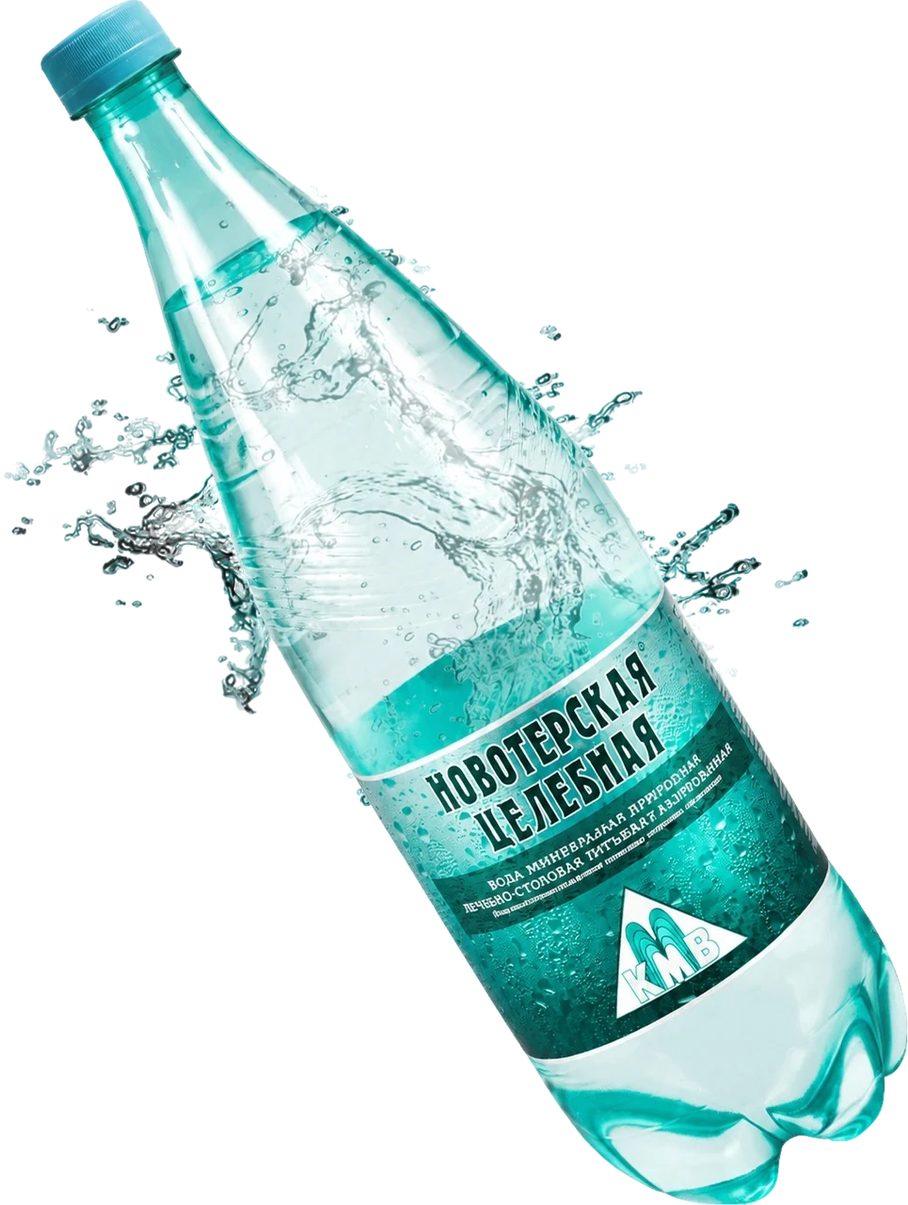
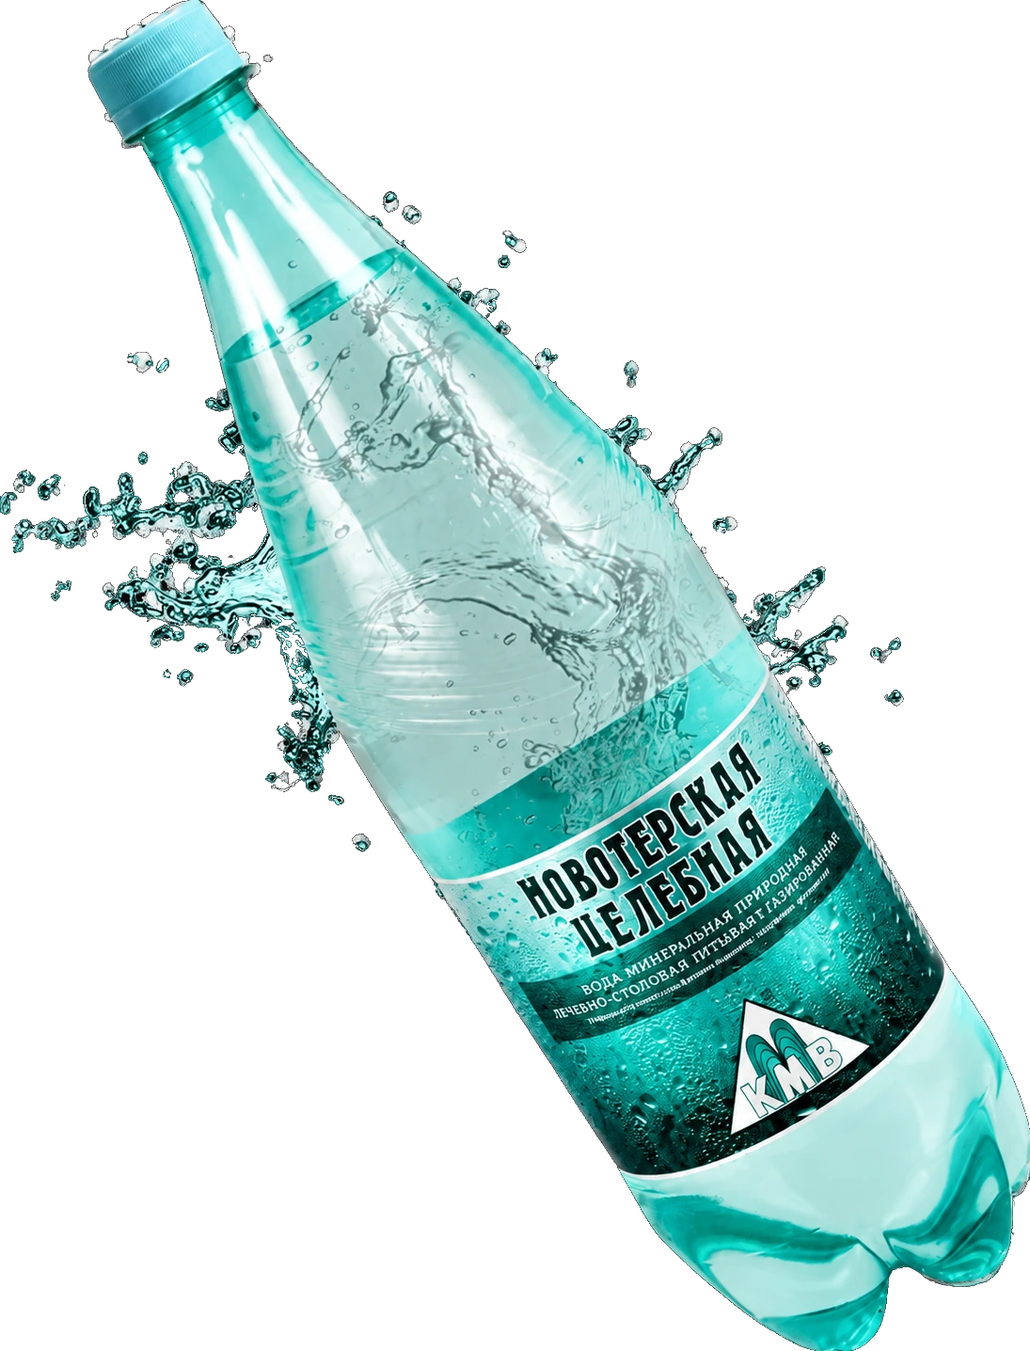
Заменить кадр бутылки на финальном экране

diff --git a/buy.html b/buy.html
@@ -31,7 +31,7 @@
      аккуратная. <noscript> — для случая, когда onload не отработает. -->
 <link href="https://fonts.googleapis.com/css2?family=Fira+Sans:ital,wght@0,400;0,500;0,600;0,700;1,400&amp;family=Prata&amp;display=swap&amp;subset=cyrillic,latin" rel="stylesheet" media="print" onload="this.media='all';this.onload=null" />
 <noscript><link href="https://fonts.googleapis.com/css2?family=Fira+Sans:ital,wght@0,400;0,500;0,600;0,700;1,400&amp;family=Prata&amp;display=swap&amp;subset=cyrillic,latin" rel="stylesheet" /></noscript>
-<link href="css/style.css?v=rock-v53" rel="stylesheet"/>
+<link href="css/style.css?v=rock-v54" rel="stylesheet"/>
 <!-- Карточки магазинов для поиска: адрес, часы работы и координаты в том же
      виде, в каком они показаны на странице. -->
 <script type="application/ld+json">
@@ -139,9 +139,9 @@
   </a>
   <a class="channel" href="#retailers">
     <span class="channel-mark channel-mark-stack" aria-hidden="true">
-      <img alt="" height="30" loading="lazy" src="assets/retailers/lenta.svg?v=rock-v53" width="91" />
-      <img alt="" height="25" loading="lazy" src="assets/retailers/perekrestok.svg?v=rock-v53" width="191" />
-      <img alt="" height="32" loading="lazy" src="assets/retailers/yandex-market.svg?v=rock-v53" width="167" />
+      <img alt="" height="30" loading="lazy" src="assets/retailers/lenta.svg?v=rock-v54" width="91" />
+      <img alt="" height="25" loading="lazy" src="assets/retailers/perekrestok.svg?v=rock-v54" width="191" />
+      <img alt="" height="32" loading="lazy" src="assets/retailers/yandex-market.svg?v=rock-v54" width="167" />
     </span>
     <span class="channel-name"><span data-en="Retail chains and delivery">Сети и доставка</span></span>
     <span class="channel-note"><span data-en="Online product cards">Карточки товара онлайн</span></span>
@@ -210,47 +210,47 @@
 <p><span data-en="Click a store logo to open the product card for Novoterskaya water on the selected retailer website.">Нажмите на значок магазина, чтобы открыть карточку воды «Новотерская» на сайте выбранной сети или сервиса.</span></p>
 <div class="retailer-grid" aria-label="Магазины, где можно купить Новотерскую" data-en-aria-label="Stores where Novoterskaya is available">
   <a class="retailer-card" href="https://lenta.com/product/voda-mineralnaya-pit-lecheb-stol-gaz-pet-rossiya-15l-29895/" rel="noopener nofollow" target="_blank">
-    <span class="retailer-logo"><img alt="Лента" height="30" loading="lazy" src="assets/retailers/lenta.svg?v=rock-v53" width="91" /></span>
+    <span class="retailer-logo"><img alt="Лента" height="30" loading="lazy" src="assets/retailers/lenta.svg?v=rock-v54" width="91" /></span>
     <span class="retailer-name">Лента</span>
     <span class="retailer-action"><span data-en="Open product card">Открыть карточку товара</span></span>
   </a>
   <a class="retailer-card" href="https://www.perekrestok.ru/cat/208/p/voda-novoterskaa-celebnaa-mineralnaa-lecebno-stolovaa-gazirovannaa-1-5l-3584" rel="noopener nofollow" target="_blank">
-    <span class="retailer-logo"><img alt="Перекрёсток" height="25" loading="lazy" src="assets/retailers/perekrestok.svg?v=rock-v53" width="191" /></span>
+    <span class="retailer-logo"><img alt="Перекрёсток" height="25" loading="lazy" src="assets/retailers/perekrestok.svg?v=rock-v54" width="191" /></span>
     <span class="retailer-name">Перекрёсток</span>
     <span class="retailer-action"><span data-en="Open product card">Открыть карточку товара</span></span>
   </a>
   <a class="retailer-card" href="https://5ka.ru/product/voda-novoterskaya-tselebnaya-mineralnaya-gazirovan--3584/?ysclid=msd0neg4wg86523127&amp;utm_referrer=https%3a%2f%2fyandex.ru%2f" rel="noopener nofollow" target="_blank">
-    <span class="retailer-logo"><img alt="Пятёрочка" height="42" loading="lazy" src="assets/retailers/pyaterochka.svg?v=rock-v53" width="191" /></span>
+    <span class="retailer-logo"><img alt="Пятёрочка" height="42" loading="lazy" src="assets/retailers/pyaterochka.svg?v=rock-v54" width="191" /></span>
     <span class="retailer-name">Пятёрочка</span>
     <span class="retailer-action"><span data-en="Open product card">Открыть карточку товара</span></span>
   </a>
   <a class="retailer-card" href="https://dixy.ru/product/voda-novoterskaya-tselebnaya-mineralnaya-gazirovannaya-15-l-di00080417/" rel="noopener nofollow" target="_blank">
-    <span class="retailer-logo"><img alt="Дикси" height="46" loading="lazy" src="assets/retailers/dixy.svg?v=rock-v53" width="182" /></span>
+    <span class="retailer-logo"><img alt="Дикси" height="46" loading="lazy" src="assets/retailers/dixy.svg?v=rock-v54" width="182" /></span>
     <span class="retailer-name">Дикси</span>
     <span class="retailer-action"><span data-en="Open product card">Открыть карточку товара</span></span>
   </a>
   <a class="retailer-card" href="https://stavropol.uteka.ru/product/novoterskaya-celebnaya-voda-mineralnaya-392336/?ysclid=msd2gnpbq586782306" rel="noopener nofollow" target="_blank">
-    <span class="retailer-logo"><img alt="Ютека" height="32" loading="lazy" src="assets/retailers/uteka.svg?v=rock-v53" width="117" /></span>
+    <span class="retailer-logo"><img alt="Ютека" height="32" loading="lazy" src="assets/retailers/uteka.svg?v=rock-v54" width="117" /></span>
     <span class="retailer-name">Ютека</span>
     <span class="retailer-action"><span data-en="Open product card">Открыть карточку товара</span></span>
   </a>
   <a class="retailer-card" href="https://aptekiplus.ru/moskva/product/voda-min-novoterskaya-celebnaya-15-l-plastik/?ysclid=msd2h1a2e9395319753" rel="noopener nofollow" target="_blank">
-    <span class="retailer-logo"><img alt="АптекиПлюс" height="20" loading="lazy" src="assets/retailers/aptekiplus.svg?v=rock-v53" width="196" /></span>
+    <span class="retailer-logo"><img alt="АптекиПлюс" height="20" loading="lazy" src="assets/retailers/aptekiplus.svg?v=rock-v54" width="196" /></span>
     <span class="retailer-name">АптекиПлюс</span>
     <span class="retailer-action"><span data-en="Open product card">Открыть карточку товара</span></span>
   </a>
   <a class="retailer-card" href="https://lavka.yandex.ru/supermarket/good/voda-mineralnaya-novoterskaya-celebnaya-lechebno-stolovaya-gazirovannaya-15-liter?ysclid=msd2hfr7g095875389" rel="noopener nofollow" target="_blank">
-    <span class="retailer-logo"><img alt="Яндекс Лавка" height="43" loading="lazy" src="assets/retailers/yandex-lavka.webp?v=rock-v53" width="300" /></span>
+    <span class="retailer-logo"><img alt="Яндекс Лавка" height="43" loading="lazy" src="assets/retailers/yandex-lavka.webp?v=rock-v54" width="300" /></span>
     <span class="retailer-name">Яндекс Лавка</span>
     <span class="retailer-action"><span data-en="Open product card">Открыть карточку товара</span></span>
   </a>
   <a class="retailer-card" href="https://market.yandex.ru/card/novoterskaya/4772144317?do-waremd5=N47aUTx4Qqo-QH84myz0ow&amp;clid=703&amp;ogV=-12" rel="noopener nofollow" target="_blank">
-    <span class="retailer-logo"><img alt="Яндекс Маркет" height="32" loading="lazy" src="assets/retailers/yandex-market.svg?v=rock-v53" width="167" /></span>
+    <span class="retailer-logo"><img alt="Яндекс Маркет" height="32" loading="lazy" src="assets/retailers/yandex-market.svg?v=rock-v54" width="167" /></span>
     <span class="retailer-name">Яндекс Маркет</span>
     <span class="retailer-action"><span data-en="Open product card">Открыть карточку товара</span></span>
   </a>
   <a class="retailer-card" href="https://kuper.ru/products/94440-voda-mineral-naya-novoterskaya-tselebnaya-gazirovannaya-lechebno-stolovaya-1-5-l-94e8152?ysclid=msd2h9xskd771966244" rel="noopener nofollow" target="_blank">
-    <span class="retailer-logo"><img alt="Купер" height="49" loading="lazy" src="assets/retailers/kuper.webp?v=rock-v53" width="300" /></span>
+    <span class="retailer-logo"><img alt="Купер" height="49" loading="lazy" src="assets/retailers/kuper.webp?v=rock-v54" width="300" /></span>
     <span class="retailer-name">Купер</span>
     <span class="retailer-action"><span data-en="Open product card">Открыть карточку товара</span></span>
   </a>
@@ -335,7 +335,7 @@
   </picture>
 </div>
 
-<script defer="" src="js/nav.js?v=rock-v53"></script>
-<script defer="" src="js/internal.js?v=rock-v53"></script>
+<script defer="" src="js/nav.js?v=rock-v54"></script>
+<script defer="" src="js/internal.js?v=rock-v54"></script>
 </body>
 </html>

diff --git a/index.html b/index.html
@@ -44,7 +44,7 @@
      аккуратная. <noscript> — для случая, когда onload не отработает. -->
 <link href="https://fonts.googleapis.com/css2?family=Fira+Sans:ital,wght@0,400;0,500;0,600;0,700;1,400&amp;family=Prata&amp;display=swap&amp;subset=cyrillic,latin" rel="stylesheet" media="print" onload="this.media='all';this.onload=null" />
 <noscript><link href="https://fonts.googleapis.com/css2?family=Fira+Sans:ital,wght@0,400;0,500;0,600;0,700;1,400&amp;family=Prata&amp;display=swap&amp;subset=cyrillic,latin" rel="stylesheet" /></noscript>
-<link rel="stylesheet" href="css/style.css?v=rock-v53" />
+<link rel="stylesheet" href="css/style.css?v=rock-v54" />
 
 <!-- Structured data -->
 <script type="application/ld+json">
@@ -211,14 +211,14 @@
          Без JS остаётся poster — первый экран от ролика не зависит (ТЗ п.14). -->
     <video class="hero-video" id="heroVideo" width="1920" height="976"
            muted playsinline preload="none"
-           poster="assets/video/hero-bg-poster.webp?v=rock-v53"
-           data-webm="assets/video/hero-bg.webm?v=rock-v53"
-           data-mp4="assets/video/hero-bg.mp4?v=rock-v53">
+           poster="assets/video/hero-bg-poster.webp?v=rock-v54"
+           data-webm="assets/video/hero-bg.webm?v=rock-v54"
+           data-mp4="assets/video/hero-bg.mp4?v=rock-v54">
       <!-- Совсем древний движок без <video>. AVIF-источника здесь нет намеренно:
            браузеры подтягивали и его, и webp из poster= — лишние килобайты в
            самый занятый момент загрузки, ровно когда рисуется первый экран. -->
       <picture>
-        <img src="assets/video/hero-bg-poster.webp?v=rock-v53" width="1920" height="976" alt="" loading="eager" fetchpriority="high" />
+        <img src="assets/video/hero-bg-poster.webp?v=rock-v54" width="1920" height="976" alt="" loading="eager" fetchpriority="high" />
       </picture>
     </video>
     <span class="hero-clouds"></span>
@@ -228,9 +228,9 @@
          под правила заднего плана. -->
     <video class="hero-scene" id="sceneVideo" width="1920" height="1080"
            muted playsinline preload="none"
-           poster="assets/video/hero-rock-poster.webp?v=rock-v53"
-           data-webm="assets/video/hero-rock.webm?v=rock-v53"
-           data-mp4="assets/video/hero-rock.mp4?v=rock-v53"></video>
+           poster="assets/video/hero-rock-poster.webp?v=rock-v54"
+           data-webm="assets/video/hero-rock.webm?v=rock-v54"
+           data-mp4="assets/video/hero-rock.mp4?v=rock-v54"></video>
     <span class="hero-glint"></span>
     <span class="hero-fog"></span>
     <span class="hero-warmth"></span>
@@ -664,7 +664,7 @@
   <div class="final-composition">
     <figure class="final-bottle reveal" aria-label="Новотерская Целебная">
       <span class="final-bottle-halo" aria-hidden="true"></span>
-      <img src="assets/voda.webp?v=rock-v53" width="965" height="1280" alt="Новотерская Целебная" loading="lazy" />
+      <img src="assets/voda.webp?v=rock-v54" width="1095" height="1436" alt="Новотерская Целебная" loading="lazy" />
       <span class="final-bottle-mist" aria-hidden="true"></span>
     </figure>
     <div class="final-inner reveal">
@@ -802,8 +802,8 @@
   <button class="btn btn-sm" id="cookieOk" type="button" data-en="Accept">Принять</button>
 </div>
 
-<script src="js/nav.js?v=rock-v53" defer></script>
-<script src="js/main.js?v=rock-v53" defer></script>
-<script src="js/cms.js?v=rock-v53" defer></script>
+<script src="js/nav.js?v=rock-v54" defer></script>
+<script src="js/main.js?v=rock-v54" defer></script>
+<script src="js/cms.js?v=rock-v54" defer></script>
 </body>
 </html>

diff --git a/charity.html b/charity.html
@@ -28,7 +28,7 @@
      аккуратная. <noscript> — для случая, когда onload не отработает. -->
 <link href="https://fonts.googleapis.com/css2?family=Fira+Sans:ital,wght@0,400;0,500;0,600;0,700;1,400&amp;family=Prata&amp;display=swap&amp;subset=cyrillic,latin" rel="stylesheet" media="print" onload="this.media='all';this.onload=null" />
 <noscript><link href="https://fonts.googleapis.com/css2?family=Fira+Sans:ital,wght@0,400;0,500;0,600;0,700;1,400&amp;family=Prata&amp;display=swap&amp;subset=cyrillic,latin" rel="stylesheet" /></noscript>
-<link href="css/style.css?v=rock-v53" rel="stylesheet"/>
+<link href="css/style.css?v=rock-v54" rel="stylesheet"/>
 </head>
 <body class="legal-page news-page">
 <header class="site-header is-solid" id="top">
@@ -136,8 +136,8 @@
   </picture>
 </div>
 
-<script defer="" src="js/nav.js?v=rock-v53"></script>
-<script defer="" src="js/news.js?v=rock-v53"></script>
-<script defer="" src="js/internal.js?v=rock-v53"></script>
+<script defer="" src="js/nav.js?v=rock-v54"></script>
+<script defer="" src="js/news.js?v=rock-v54"></script>
+<script defer="" src="js/internal.js?v=rock-v54"></script>
 </body>
 </html>

diff --git a/news.html b/news.html
@@ -28,7 +28,7 @@
      аккуратная. <noscript> — для случая, когда onload не отработает. -->
 <link href="https://fonts.googleapis.com/css2?family=Fira+Sans:ital,wght@0,400;0,500;0,600;0,700;1,400&amp;family=Prata&amp;display=swap&amp;subset=cyrillic,latin" rel="stylesheet" media="print" onload="this.media='all';this.onload=null" />
 <noscript><link href="https://fonts.googleapis.com/css2?family=Fira+Sans:ital,wght@0,400;0,500;0,600;0,700;1,400&amp;family=Prata&amp;display=swap&amp;subset=cyrillic,latin" rel="stylesheet" /></noscript>
-<link href="css/style.css?v=rock-v53" rel="stylesheet"/>
+<link href="css/style.css?v=rock-v54" rel="stylesheet"/>
 </head>
 <body class="legal-page news-page">
 <header class="site-header is-solid" id="top">
@@ -136,8 +136,8 @@
   </picture>
 </div>
 
-<script defer="" src="js/nav.js?v=rock-v53"></script>
-<script defer="" src="js/news.js?v=rock-v53"></script>
-<script defer="" src="js/internal.js?v=rock-v53"></script>
+<script defer="" src="js/nav.js?v=rock-v54"></script>
+<script defer="" src="js/news.js?v=rock-v54"></script>
+<script defer="" src="js/internal.js?v=rock-v54"></script>
 </body>
 </html>

diff --git a/awards.html b/awards.html
@@ -28,7 +28,7 @@
      аккуратная. <noscript> — для случая, когда onload не отработает. -->
 <link href="https://fonts.googleapis.com/css2?family=Fira+Sans:ital,wght@0,400;0,500;0,600;0,700;1,400&amp;family=Prata&amp;display=swap&amp;subset=cyrillic,latin" rel="stylesheet" media="print" onload="this.media='all';this.onload=null" />
 <noscript><link href="https://fonts.googleapis.com/css2?family=Fira+Sans:ital,wght@0,400;0,500;0,600;0,700;1,400&amp;family=Prata&amp;display=swap&amp;subset=cyrillic,latin" rel="stylesheet" /></noscript>
-<link href="css/style.css?v=rock-v53" rel="stylesheet"/>
+<link href="css/style.css?v=rock-v54" rel="stylesheet"/>
 </head>
 <body class="legal-page">
 <header class="site-header is-solid" id="top">
@@ -714,8 +714,8 @@
   </picture>
 </div>
 
-<script defer="" src="js/nav.js?v=rock-v53"></script>
-<script defer="" src="js/internal.js?v=rock-v53"></script>
-<script defer="" src="js/awards.js?v=rock-v53"></script>
+<script defer="" src="js/nav.js?v=rock-v54"></script>
+<script defer="" src="js/internal.js?v=rock-v54"></script>
+<script defer="" src="js/awards.js?v=rock-v54"></script>
 </body>
 </html>

diff --git a/lab.html b/lab.html
@@ -28,7 +28,7 @@
      аккуратная. <noscript> — для случая, когда onload не отработает. -->
 <link href="https://fonts.googleapis.com/css2?family=Fira+Sans:ital,wght@0,400;0,500;0,600;0,700;1,400&amp;family=Prata&amp;display=swap&amp;subset=cyrillic,latin" rel="stylesheet" media="print" onload="this.media='all';this.onload=null" />
 <noscript><link href="https://fonts.googleapis.com/css2?family=Fira+Sans:ital,wght@0,400;0,500;0,600;0,700;1,400&amp;family=Prata&amp;display=swap&amp;subset=cyrillic,latin" rel="stylesheet" /></noscript>
-<link href="css/style.css?v=rock-v53" rel="stylesheet"/>
+<link href="css/style.css?v=rock-v54" rel="stylesheet"/>
 </head>
 <body class="legal-page">
 <header class="site-header is-solid" id="top">
@@ -227,8 +227,8 @@
   </picture>
 </div>
 
-<script defer="" src="js/nav.js?v=rock-v53"></script>
-<script defer="" src="js/internal.js?v=rock-v53"></script>
-<script defer="" src="js/awards.js?v=rock-v53"></script>
+<script defer="" src="js/nav.js?v=rock-v54"></script>
+<script defer="" src="js/internal.js?v=rock-v54"></script>
+<script defer="" src="js/awards.js?v=rock-v54"></script>
 </body>
 </html>

diff --git a/catalog.html b/catalog.html
@@ -170,7 +170,7 @@
      аккуратная. <noscript> — для случая, когда onload не отработает. -->
 <link href="https://fonts.googleapis.com/css2?family=Fira+Sans:ital,wght@0,400;0,500;0,600;0,700;1,400&amp;family=Prata&amp;display=swap&amp;subset=cyrillic,latin" rel="stylesheet" media="print" onload="this.media='all';this.onload=null" />
 <noscript><link href="https://fonts.googleapis.com/css2?family=Fira+Sans:ital,wght@0,400;0,500;0,600;0,700;1,400&amp;family=Prata&amp;display=swap&amp;subset=cyrillic,latin" rel="stylesheet" /></noscript>
-<link rel="stylesheet" href="css/style.css?v=rock-v53" />
+<link rel="stylesheet" href="css/style.css?v=rock-v54" />
 </head>
 <body class="catalog-page">
 
@@ -522,8 +522,8 @@
   </picture>
 </div>
 
-<script src="js/nav.js?v=rock-v53" defer></script>
-<script src="js/main.js?v=rock-v53"></script>
-<script src="js/cms.js?v=rock-v53"></script>
+<script src="js/nav.js?v=rock-v54" defer></script>
+<script src="js/main.js?v=rock-v54"></script>
+<script src="js/cms.js?v=rock-v54"></script>
 </body>
 </html>

diff --git a/composition.html b/composition.html
@@ -28,7 +28,7 @@
      аккуратная. <noscript> — для случая, когда onload не отработает. -->
 <link href="https://fonts.googleapis.com/css2?family=Fira+Sans:ital,wght@0,400;0,500;0,600;0,700;1,400&amp;family=Prata&amp;display=swap&amp;subset=cyrillic,latin" rel="stylesheet" media="print" onload="this.media='all';this.onload=null" />
 <noscript><link href="https://fonts.googleapis.com/css2?family=Fira+Sans:ital,wght@0,400;0,500;0,600;0,700;1,400&amp;family=Prata&amp;display=swap&amp;subset=cyrillic,latin" rel="stylesheet" /></noscript>
-<link href="css/style.css?v=rock-v53" rel="stylesheet"/>
+<link href="css/style.css?v=rock-v54" rel="stylesheet"/>
 </head>
 <body class="legal-page">
 <header class="site-header is-solid" id="top">
@@ -300,7 +300,7 @@
   </picture>
 </div>
 
-<script defer="" src="js/nav.js?v=rock-v53"></script>
-<script defer="" src="js/internal.js?v=rock-v53"></script>
+<script defer="" src="js/nav.js?v=rock-v54"></script>
+<script defer="" src="js/internal.js?v=rock-v54"></script>
 </body>
 </html>

diff --git a/documents.html b/documents.html
@@ -28,7 +28,7 @@
      аккуратная. <noscript> — для случая, когда onload не отработает. -->
 <link href="https://fonts.googleapis.com/css2?family=Fira+Sans:ital,wght@0,400;0,500;0,600;0,700;1,400&amp;family=Prata&amp;display=swap&amp;subset=cyrillic,latin" rel="stylesheet" media="print" onload="this.media='all';this.onload=null" />
 <noscript><link href="https://fonts.googleapis.com/css2?family=Fira+Sans:ital,wght@0,400;0,500;0,600;0,700;1,400&amp;family=Prata&amp;display=swap&amp;subset=cyrillic,latin" rel="stylesheet" /></noscript>
-<link href="css/style.css?v=rock-v53" rel="stylesheet"/>
+<link href="css/style.css?v=rock-v54" rel="stylesheet"/>
 </head>
 <body class="legal-page">
 <header class="site-header is-solid" id="top">
@@ -243,7 +243,7 @@
   </picture>
 </div>
 
-<script defer="" src="js/nav.js?v=rock-v53"></script>
-<script defer="" src="js/internal.js?v=rock-v53"></script>
+<script defer="" src="js/nav.js?v=rock-v54"></script>
+<script defer="" src="js/internal.js?v=rock-v54"></script>
 </body>
 </html>

diff --git a/history.html b/history.html
@@ -28,7 +28,7 @@
      аккуратная. <noscript> — для случая, когда onload не отработает. -->
 <link href="https://fonts.googleapis.com/css2?family=Fira+Sans:ital,wght@0,400;0,500;0,600;0,700;1,400&amp;family=Prata&amp;display=swap&amp;subset=cyrillic,latin" rel="stylesheet" media="print" onload="this.media='all';this.onload=null" />
 <noscript><link href="https://fonts.googleapis.com/css2?family=Fira+Sans:ital,wght@0,400;0,500;0,600;0,700;1,400&amp;family=Prata&amp;display=swap&amp;subset=cyrillic,latin" rel="stylesheet" /></noscript>
-<link href="css/style.css?v=rock-v53" rel="stylesheet"/>
+<link href="css/style.css?v=rock-v54" rel="stylesheet"/>
 </head>
 <body class="legal-page">
 <header class="site-header is-solid" id="top">
@@ -421,7 +421,7 @@
   </picture>
 </div>
 
-<script defer="" src="js/nav.js?v=rock-v53"></script>
-<script defer="" src="js/internal.js?v=rock-v53"></script>
+<script defer="" src="js/nav.js?v=rock-v54"></script>
+<script defer="" src="js/internal.js?v=rock-v54"></script>
 </body>
 </html>

diff --git a/privacy.html b/privacy.html
@@ -28,7 +28,7 @@
      аккуратная. <noscript> — для случая, когда onload не отработает. -->
 <link href="https://fonts.googleapis.com/css2?family=Fira+Sans:ital,wght@0,400;0,500;0,600;0,700;1,400&amp;family=Prata&amp;display=swap&amp;subset=cyrillic,latin" rel="stylesheet" media="print" onload="this.media='all';this.onload=null" />
 <noscript><link href="https://fonts.googleapis.com/css2?family=Fira+Sans:ital,wght@0,400;0,500;0,600;0,700;1,400&amp;family=Prata&amp;display=swap&amp;subset=cyrillic,latin" rel="stylesheet" /></noscript>
-<link href="css/style.css?v=rock-v53" rel="stylesheet"/>
+<link href="css/style.css?v=rock-v54" rel="stylesheet"/>
 </head>
 <body class="legal-page">
 <header class="site-header is-solid" id="top">
@@ -373,7 +373,7 @@
   </picture>
 </div>
 
-<script defer="" src="js/nav.js?v=rock-v53"></script>
-<script defer="" src="js/internal.js?v=rock-v53"></script>
+<script defer="" src="js/nav.js?v=rock-v54"></script>
+<script defer="" src="js/internal.js?v=rock-v54"></script>
 </body>
 </html>

diff --git a/story.html b/story.html
@@ -28,7 +28,7 @@
      аккуратная. <noscript> — для случая, когда onload не отработает. -->
 <link href="https://fonts.googleapis.com/css2?family=Fira+Sans:ital,wght@0,400;0,500;0,600;0,700;1,400&amp;family=Prata&amp;display=swap&amp;subset=cyrillic,latin" rel="stylesheet" media="print" onload="this.media='all';this.onload=null" />
 <noscript><link href="https://fonts.googleapis.com/css2?family=Fira+Sans:ital,wght@0,400;0,500;0,600;0,700;1,400&amp;family=Prata&amp;display=swap&amp;subset=cyrillic,latin" rel="stylesheet" /></noscript>
-<link href="css/style.css?v=rock-v53" rel="stylesheet"/>
+<link href="css/style.css?v=rock-v54" rel="stylesheet"/>
 </head>
 <body class="legal-page">
 <header class="site-header is-solid" id="top">
@@ -146,7 +146,7 @@
   </picture>
 </div>
 
-<script defer="" src="js/nav.js?v=rock-v53"></script>
-<script defer="" src="js/internal.js?v=rock-v53"></script>
+<script defer="" src="js/nav.js?v=rock-v54"></script>
+<script defer="" src="js/internal.js?v=rock-v54"></script>
 </body>
 </html>
